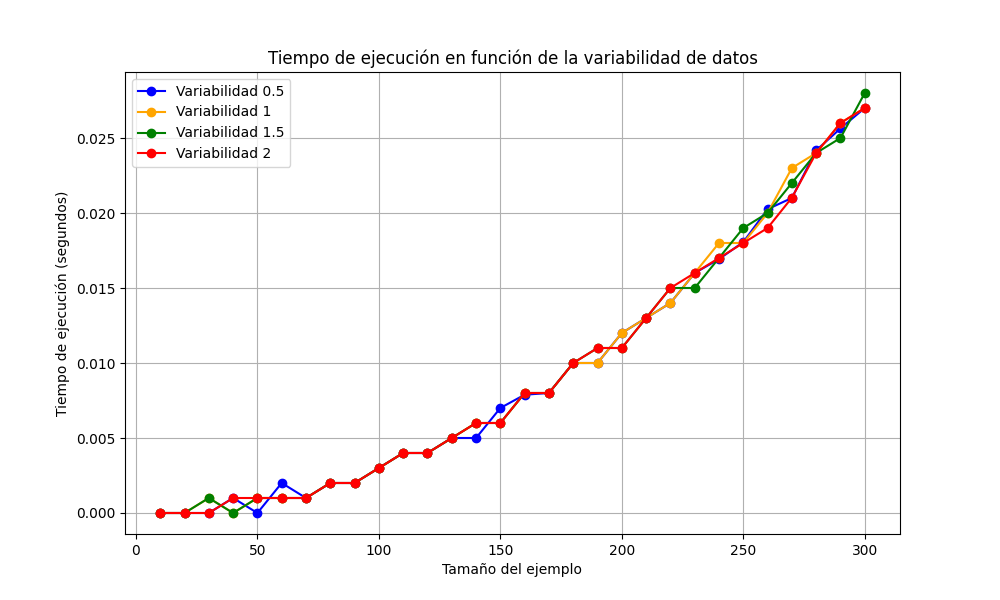
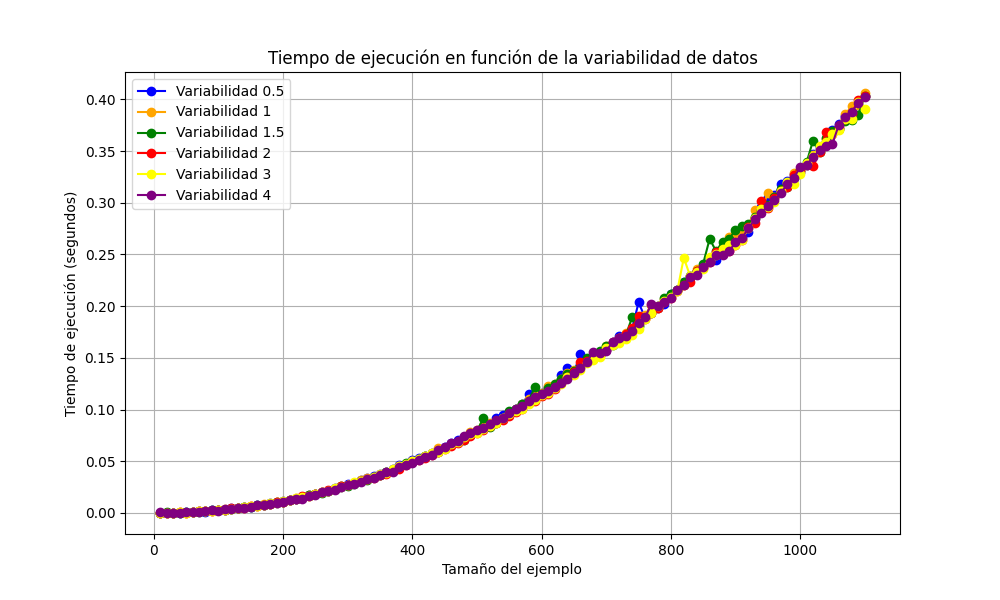
[REF] Aumentamos la cantidad de juegos en la variabilidad

diff --git a/TP2/src/variabilidad.py b/TP2/src/variabilidad.py
@@ -29,11 +29,11 @@ def ejecutar_simulaciones_variabilidad(tamaños, niveles_variabilidad, tiempos_e
 
 def mostrar_tiempo_vs_variabilidad():
     # Lista de tamaños de ejemplos que vamos a probar
-    tamaños = range(10, 301, 10)  # de 10 a 300 monedas, en pasos de 10
+    tamaños = range(10, 1101, 10)  # de 10 a 300 monedas, en pasos de 10
 
     # Lista de niveles de variabilidad que queremos probar
-    niveles_variabilidad = [0.5, 1, 1.5, 2]
-    colores = ['b', 'orange', 'g', 'r']  # Colores para el gráfico
+    niveles_variabilidad = [0.5, 1, 1.5, 2, 3, 4] 
+    colores = ['b', 'orange', 'g', 'r', 'yellow', 'purple']  # Colores para el gráfico
 
     # Diccionario para almacenar los tiempos de ejecución
     tiempos_ejecucion = {variabilidad: [] for variabilidad in niveles_variabilidad}
